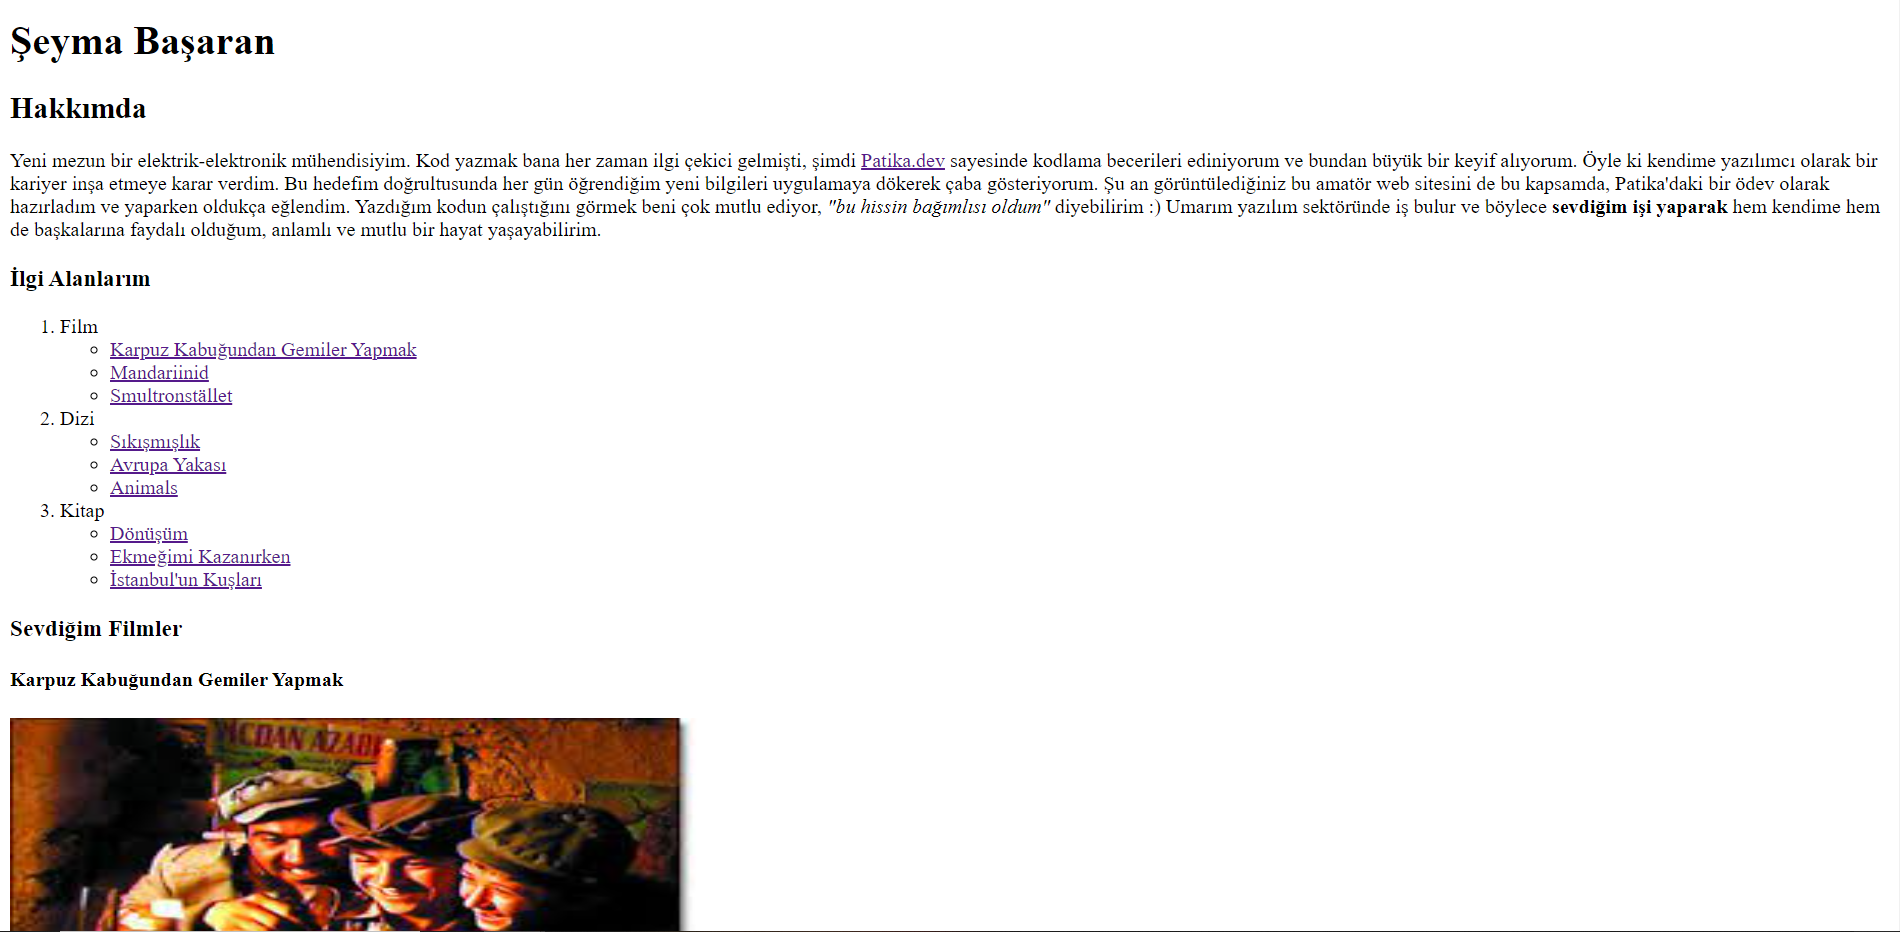
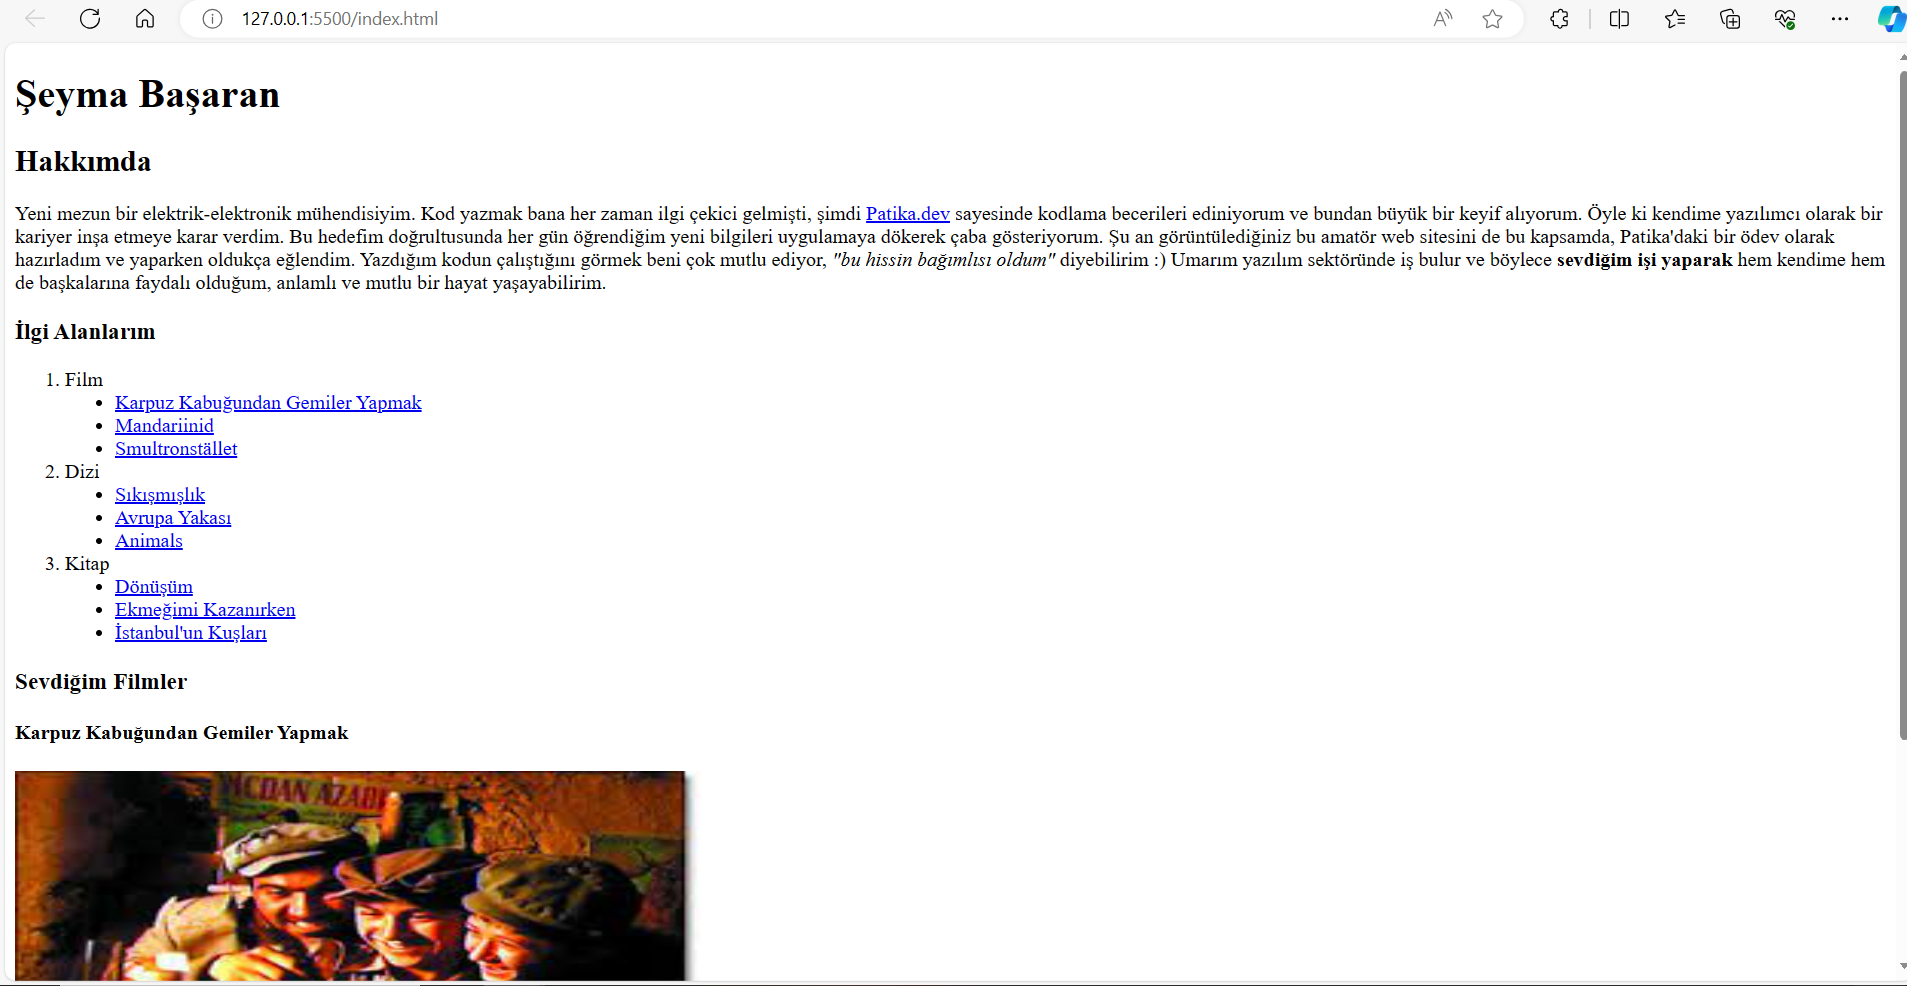
Changed <ul> list type to "disc"

Changed region(s): [[0.0, 0.0, 1.0, 1.0], [0.0, 0.0, 0.2484, 0.1245], [0.8074, 0.0, 0.8384, 0.0311]]

diff --git a/index.html b/index.html
@@ -15,17 +15,17 @@
     <!-- İlgi alanlarımın başlangıcı -->
     <h3>İlgi Alanlarım</h3>
     <ol>
-        <li>Film</li><ul>
+        <li>Film</li><ul type="disc">
             <li><a href="https://www.imdb.com/title/tt0325675/?ref_=rt_li_tt" target="_blank">Karpuz Kabuğundan Gemiler Yapmak</a></li>
             <li><a href="https://www.imdb.com/title/tt2991224/?ref_=rt_li_tt" target="_blank"> Mandariinid</a></li>
             <li><a href="https://www.imdb.com/title/tt0050986/?ref_=rt_li_tt"target="_blank">Smultronstället</a></li>
         </ul>
-        <li>Dizi</li><ul>
+        <li>Dizi</li><ul type="disc">
             <li><a href="https://www.imdb.com/title/tt11536178/?ref_=rt_li_tt" target="_blank">Sıkışmışlık</a></li>
             <li><a href="https://www.imdb.com/title/tt0421291/?ref_=nm_knf_t_1"target="_blank">Avrupa Yakası</a></li>
             <li><a href="https://www.imdb.com/title/tt4953128/?ref_=rt_li_tt" target="_blank">Animals</a></li>
         </ul>
-        <li>Kitap</li><ul>
+        <li>Kitap</li><ul type="disc">
             <li><a href="https://www.goodreads.com/book/show/9509724-d-n-m" target="_blank">Dönüşüm</a></li>
             <li><a href="https://www.goodreads.com/book/show/6392368-ekme-imi-kazan-rken" target="_blank">Ekmeğimi Kazanırken</a></li>
             <li><a href="https://www.goodreads.com/book/show/43971696-i-stanbul-un-ku-lar" target="_blank">İstanbul'un Kuşları</a></li>
